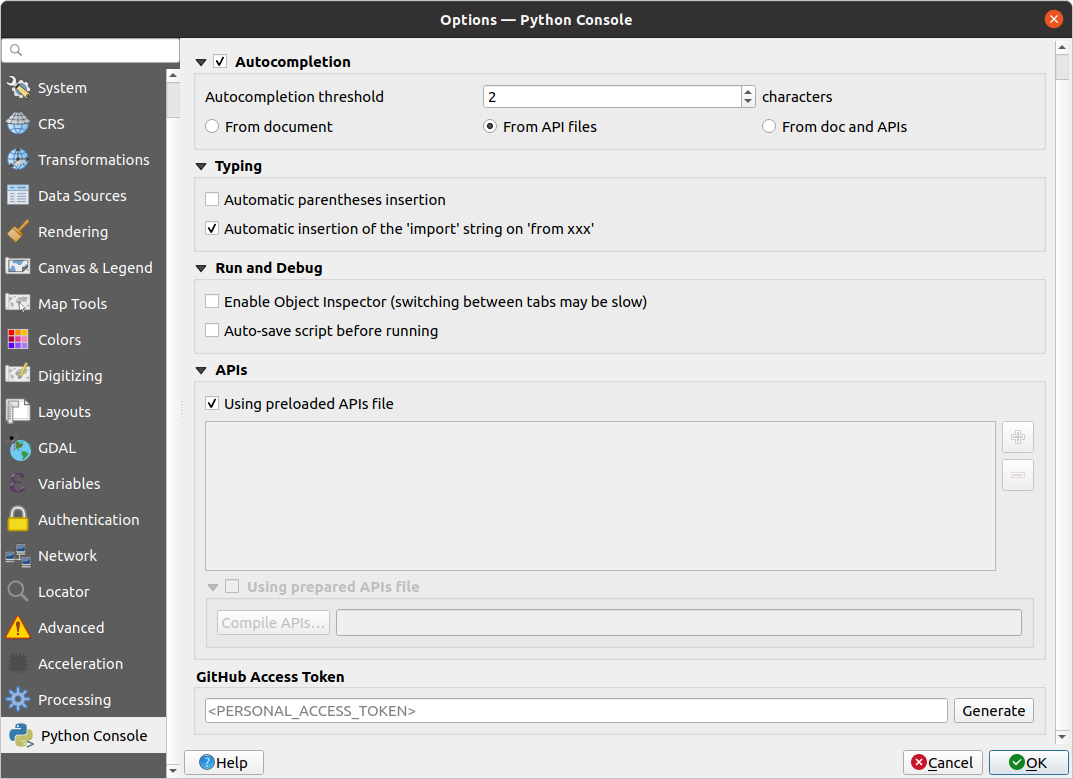
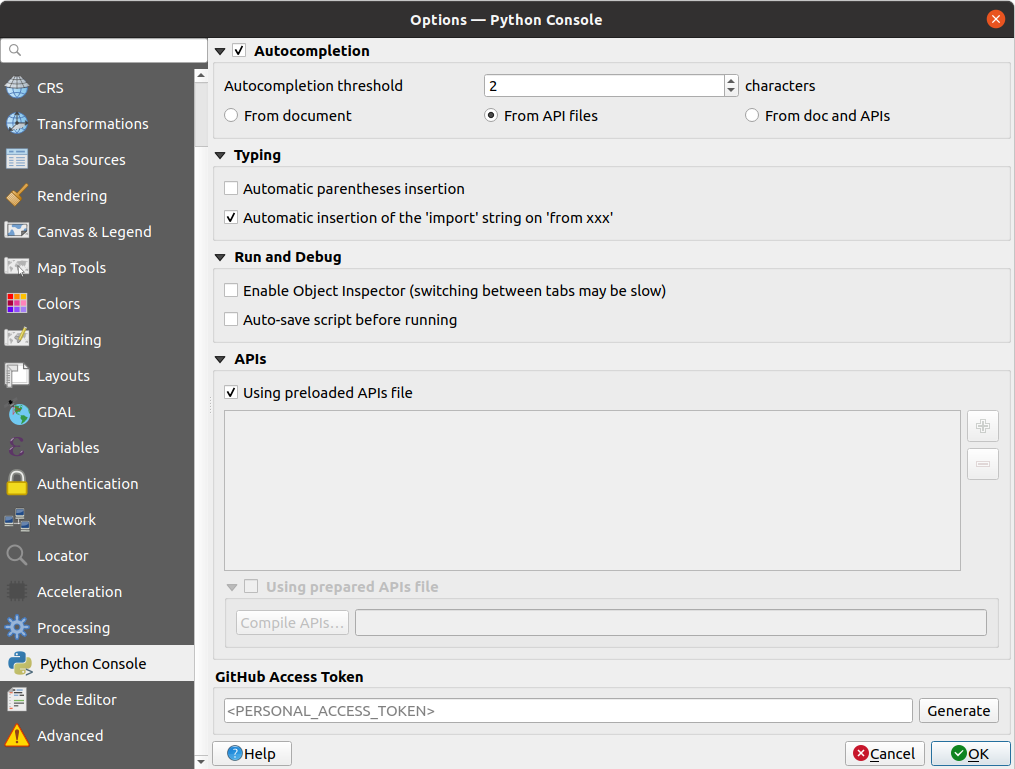
Update descriptions and add screenshots

diff --git a/docs/user_manual/introduction/qgis_configuration.rst b/docs/user_manual/introduction/qgis_configuration.rst
@@ -1037,10 +1037,11 @@ More information at :ref:`label_processing`.
 Python Console Settings
 -----------------------
 
-The |runConsole| :guilabel:`Python Console` settings apply to the Python
-:ref:`interactive console <console>` and :ref:`code editor <console_editor>`.
-They help manage and control their behavior and the dialog is accessible using
-the |options| :sup:`Options...` button from:
+The |runConsole| :guilabel:`Python Console` settings help you manage and control
+the behavior of the Python editors (:ref:`interactive console <interactive_console>`,
+:ref:`code editor <console_editor>`, :ref:`project macros <project_macros>`,
+:ref:`custom expressions <function_editor>`, ...).
+It can also be accessed using the |options| :sup:`Options...` button from:
 
 * the :guilabel:`Python console` toolbar
 * the contextual menu of the :guilabel:`Python console` widget
@@ -1053,7 +1054,7 @@ the |options| :sup:`Options...` button from:
 
    Python Console Settings tab
 
-For both the Python :guilabel:`Console` and :guilabel:`Editor` you can specify:
+You can specify:
 
 * |unchecked| :guilabel:`Autocompletion`: Enables code completion. You can get
   autocompletion from the current document, the installed API files or both.
@@ -1061,16 +1062,14 @@ For both the Python :guilabel:`Console` and :guilabel:`Editor` you can specify:
   * :guilabel:`Autocompletion threshold`: Sets the threshold for displaying
     the autocompletion list (in characters)
 
-* :guilabel:`Typing`
+* under :guilabel:`Typing`
 
   * |unchecked| :guilabel:`Automatic parentheses insertion`: Enables autoclosing
     for parentheses
   * |checkbox| :guilabel:`Automatic insertion of the 'import' string on 'from xxx'`:
     Enables insertion of 'import' when specifying imports
 
-For :guilabel:`Editor` you can also specify:
-
-* :guilabel:`Run and Debug`
+* under :guilabel:`Run and Debug`
 
   * |unchecked| :guilabel:`Enable Object Inspector (switching between tabs may
     be slow)`: Enable the object inspector.
@@ -1098,20 +1097,32 @@ For :guilabel:`APIs` you can specify:
 Code Editor Settings
 --------------------
 
-In the |codeEditor| :guilabel:`Code Editor` tab, you have access to rendering
-properties inside code editor widgets (Python interactive console and editor,
+In the |codeEditor| :guilabel:`Code Editor` tab, you can control the appearance
+and behaviour of code editor widgets (Python interactive console and editor,
 expression widget and function editor, ...).
+
+.. _figure_code_editor_settings:
+
+.. figure:: img/options_codeeditor.png
+   :align: center
+
+   Code Editor Settings tab
+
+At the top of the dialog, a widget provides a live preview of the current
+settings, in various coding languages (Python, QGIS expression, HTML, SQL,
+JavaScript). A convenient way to adjust settings.
 
 * Check |unchecked| :guilabel:`Override code editor font` to modify the default
   :guilabel:`Font` family and :guilabel:`Size`.
 
 * Under the :guilabel:`Colors` group, you can:
 
-  * select a :guilabel:`Color scheme` different to the default applied to the
-    active theme
+  * select a :guilabel:`Color scheme`: predefined settings are ``Default``,
+    ``Solarized Dark`` and ``Solarized Light``. A ``Custom`` scheme is triggered
+    whenever you modify a color and can be reset with selecting a predefined
+    scheme.
   * change the :ref:`color <color_widget>` of each element in code writing,
-    such as the colors to use for comments, quotes, functions, ...
-  * press |undo| :sup:`Reset to default colors` to remove custom changes.
+    such as the colors to use for comments, quotes, functions, background, ...
 
 
 .. index:: User profile
@@ -1421,6 +1432,8 @@ project-level variable from the list and click the |signMinus| button to
 remove it.
 More information on variables usage in the General Tools
 :ref:`general_tools_variables` section.
+
+.. _project_macros:
 
 Macros Properties
 -----------------
@@ -1949,7 +1962,5 @@ in the QGIS user profile.
    :width: 1.5em
 .. |unchecked| image:: /static/common/checkbox_unchecked.png
    :width: 1.3em
-.. |undo| image:: /static/common/mActionUndo.png
-   :width: 1.5em
 .. |win| image:: /static/common/win.png
    :width: 1em

diff --git a/docs/user_manual/plugins/python_console.rst b/docs/user_manual/plugins/python_console.rst
@@ -26,6 +26,8 @@ your python scripts. Both console and editor are based on PyQScintilla2
 package. To open the console go to :menuselection:`Plugins --> Python Console`
 (:kbd:`Ctrl+Alt+P`).
 
+.. _interactive_console:
+
 The Interactive Console
 =======================
 
